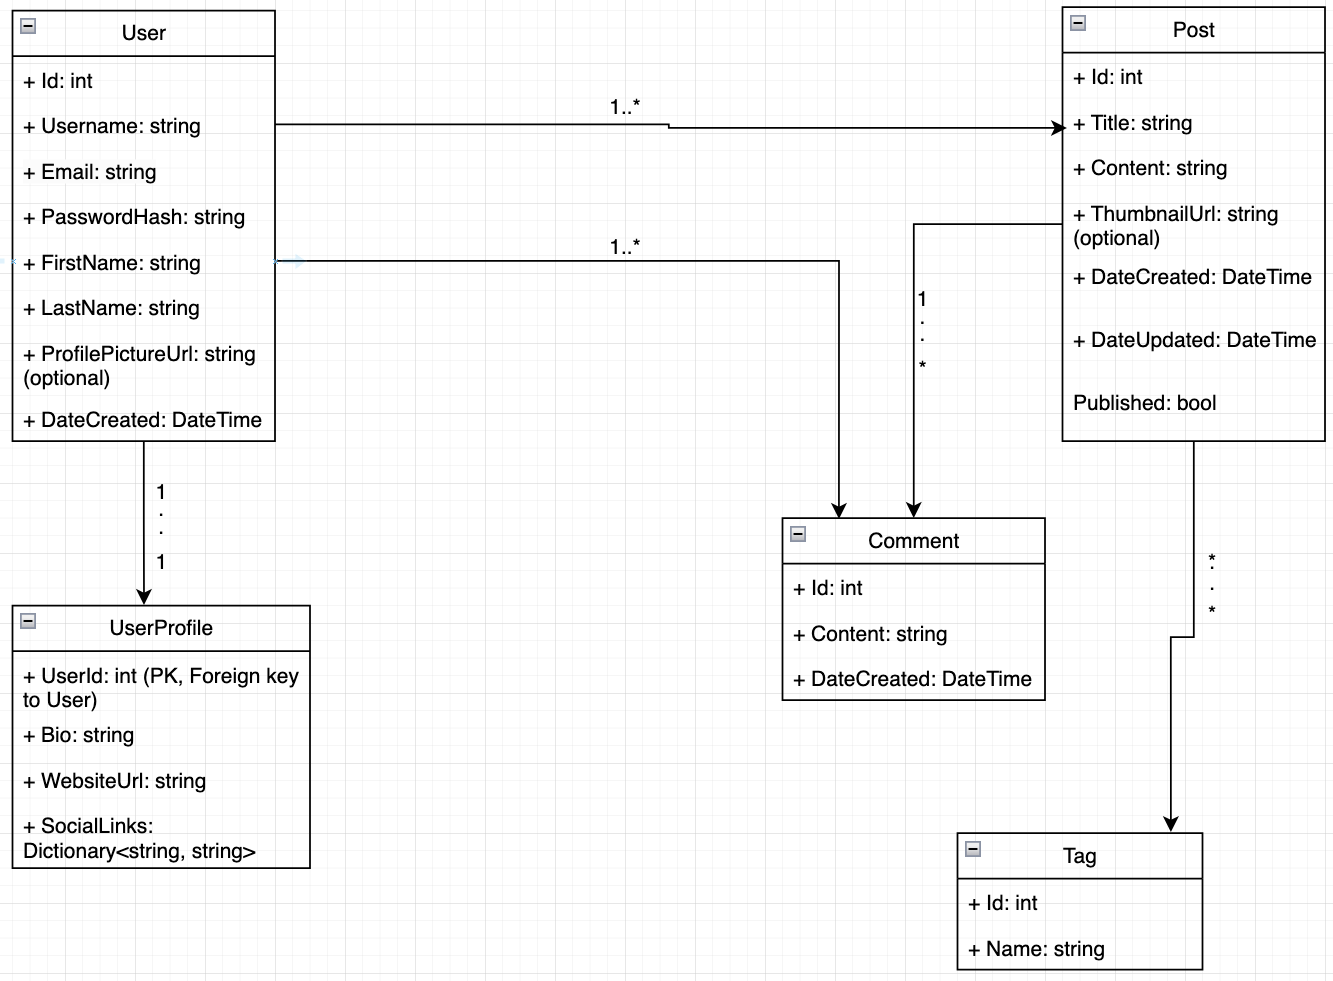
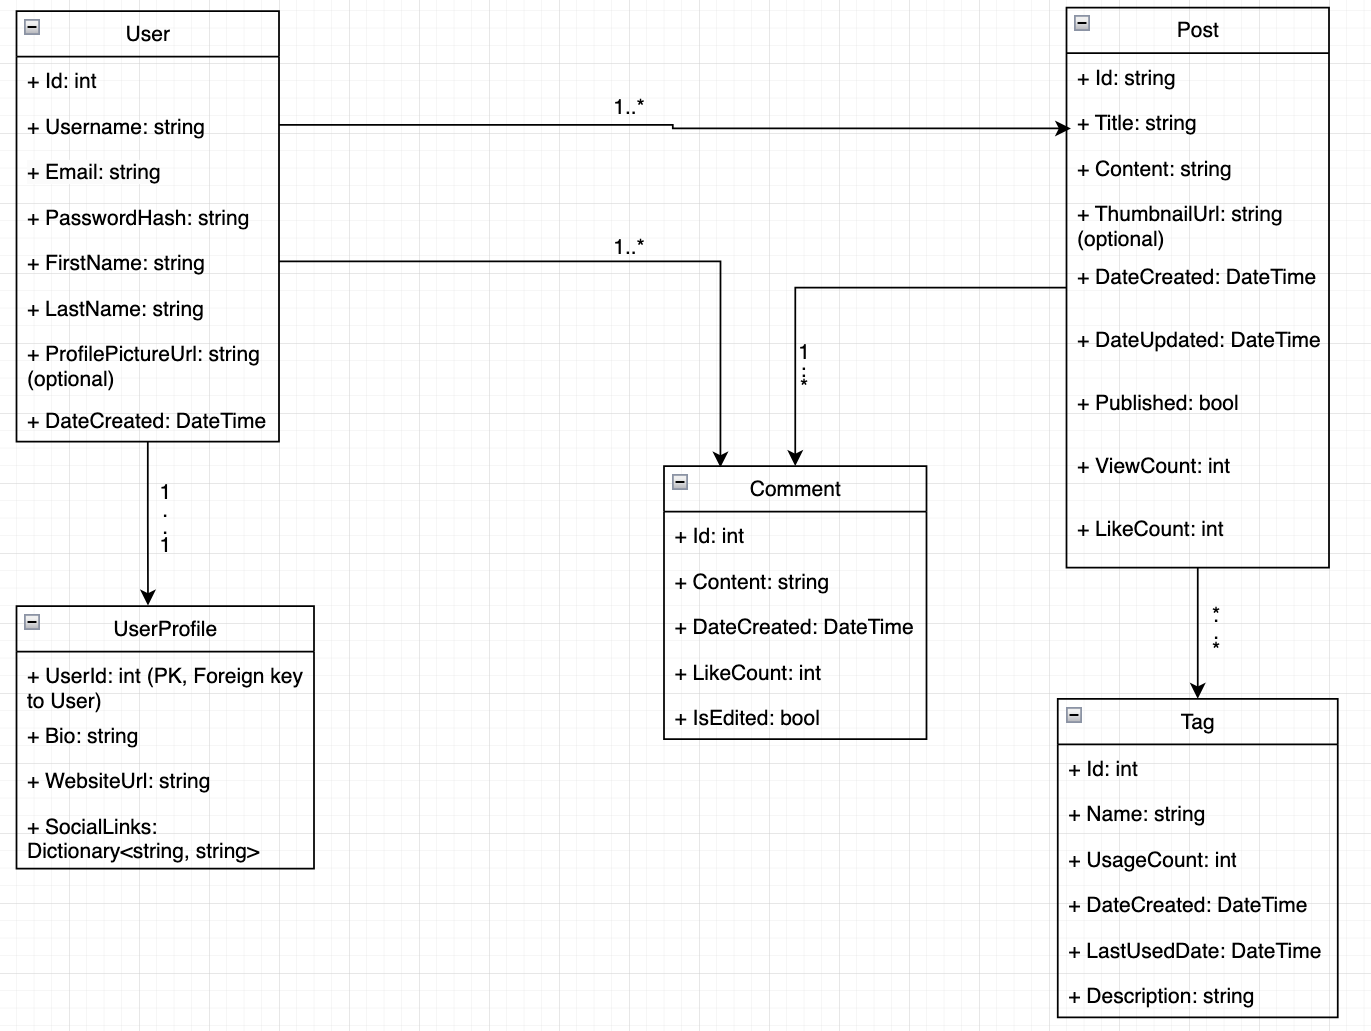
Create domain models, update readme

diff --git a/PostService.Domain/Models/Post.cs b/PostService.Domain/Models/Post.cs
@@ -1,0 +1,46 @@
+using System.ComponentModel.DataAnnotations;
+using MongoDB.Bson;
+using MongoDB.Bson.Serialization.Attributes;
+
+namespace PostService.Domain.Models
+{
+	public class Post
+	{
+        [BsonId] // Marks this as the MongoDB _id field
+        [BsonRepresentation(BsonType.ObjectId)] // Ensures it is serialized/deserialized as an ObjectId
+        public string Id { get; set; } = ObjectId.GenerateNewId().ToString(); // Default to a new ObjectId
+
+        [Required, MaxLength(30, ErrorMessage = "The title cannot have more than 30 characters.")]
+        public string? Title { get; set; }
+
+        [Required]
+        public string? Content { get; set; }
+
+        public string? ThumbnailUrl { get; set; } // Optional thumbnail for the post
+
+        [Required]
+        public DateTime DateCreated { get; set; } = DateTime.UtcNow; // Default to the current UTC time
+
+        [Required]
+        public DateTime DateUpdated { get; set; } = DateTime.UtcNow; // Tracks when the post was last updated
+
+        [Required]
+        public bool Published { get; set; }
+
+        // Navigation Property for Comments
+        public List<Comment>? Comments { get; set; } = new List<Comment>();
+
+        // Many-to-Many Relationship with Tags (via Tag IDs)
+        public List<string>? TagIds { get; set; } = new List<string>(); // Use `ObjectId`-formatted strings for Tag IDs
+
+        // UserId as a foreign key to the MySQL User table
+        // The UserId is a foreign key to the MySQL User table.
+        [Required]
+        public int UserId { get; set; } // References the author in the MySQL User table
+
+        // New Metadata
+        public int? ViewCount { get; set; } = 0; // Tracks how many times the post was viewed
+        public int? LikeCount { get; set; } = 0; // Tracks the
+    }
+}
+

diff --git a/PostService.Domain/Models/Tag.cs b/PostService.Domain/Models/Tag.cs
@@ -1,0 +1,32 @@
+using System.ComponentModel.DataAnnotations;
+using MongoDB.Bson;
+using MongoDB.Bson.Serialization.Attributes;
+
+namespace PostService.Domain.Models
+{
+	public class Tag
+	{
+        [BsonId] // Marks this as the MongoDB _id field
+        [BsonRepresentation(BsonType.ObjectId)] // Ensures it is serialized/deserialized as an ObjectId
+        public string Id { get; set; } = ObjectId.GenerateNewId().ToString(); // Default to a new ObjectId
+
+        [Required, MaxLength(30, ErrorMessage = "The name cannot have more than 30 characters.")]
+        public string? Name { get; set; }
+
+        // Reference back to Posts (Many-to-Many relationship)
+        [BsonRepresentation(BsonType.ObjectId)]
+        public List<string>? PostIds { get; set; } = new List<string>(); // Use `ObjectId`-formatted strings
+
+        // Optional: Additional metadata
+        public int UsageCount { get; set; } = 0; // Tracks how often the tag is used
+
+        // Optional metadata for better tracking
+        [Required]
+        public DateTime CreatedDate { get; set; } = DateTime.UtcNow; // When the tag was created
+        public DateTime? LastUsedDate { get; set; } // Tracks when the tag was last used
+
+        // Optional description for the tag
+        public string? Description { get; set; } // Short description of the tag
+    }
+}
+

diff --git a/PostService.Domain/Models/Comment.cs b/PostService.Domain/Models/Comment.cs
@@ -1,0 +1,32 @@
+using System.ComponentModel.DataAnnotations;
+using MongoDB.Bson;
+using MongoDB.Bson.Serialization.Attributes;
+
+namespace PostService.Domain.Models
+{
+	public class Comment
+	{
+        [BsonId] // Marks this as the MongoDB _id field
+        [BsonRepresentation(BsonType.ObjectId)] // Ensures it is serialized/deserialized as an ObjectId
+        public string Id { get; set; } = ObjectId.GenerateNewId().ToString(); // Default to a new ObjectId
+
+        [Required]
+        public string? Content { get; set; }
+
+        [Required]
+        public DateTime DateCreated { get; set; } = DateTime.UtcNow; // Default to current UTC time
+
+        // Reference back to Post
+        [BsonRepresentation(BsonType.ObjectId)]
+        public string? PostId { get; set; }  // Use ObjectId as string for Post reference
+
+        // Relationship: Comment belongs to a User (via UserId)
+        [Required]
+        public int UserId { get; set; } // Reference to the MySQL User's ID
+
+        // New Metadata
+        public int LikeCount { get; set; } = 0; // Tracks the number of likes for the comment
+        public bool IsEdited { get; set; } = false; // Tracks if the comment was edited
+    }
+}
+

diff --git a/UserService.Domain/Models/User.cs b/UserService.Domain/Models/User.cs
@@ -1,0 +1,35 @@
+using System.ComponentModel.DataAnnotations;
+
+namespace UserService.Domain.Models
+{
+	public class User
+	{
+		[Key]
+		public int Id { get; set; }
+
+		[Required, MaxLength(50, ErrorMessage = "The username cannot have more than 50 characters.")]
+		public string? Username { get; set; }
+
+        [Required, EmailAddress]
+        public string? Email { get; set; }
+
+        [Required]
+        public string? PasswordHash { get; set; } // Hashed password for security
+
+        [Required, MaxLength(50, ErrorMessage = "The first name cannot have more than 50 characters.")]
+        public string? FirstName { get; set; }
+
+        [Required, MaxLength(50, ErrorMessage = "The last name cannot have more than 50 characters.")]
+        public string? LastName { get; set; }
+
+        [MaxLength(255, ErrorMessage = "The picture file is cannot be that large.")]
+        public string? ProfilePictureUrl { get; set; }
+
+        [Required]
+        public DateTime DateCreated { get; set; }
+
+        // Navigation Property for the 1:1 relationship
+        public UserProfile? Profile { get; set; }
+    }
+}
+

diff --git a/UserService.Domain/Models/UserProfile.cs b/UserService.Domain/Models/UserProfile.cs
@@ -1,0 +1,21 @@
+using System.ComponentModel.DataAnnotations;
+
+namespace UserService.Domain.Models
+{
+	public class UserProfile
+	{
+        [Key]
+        public int UserId { get; set; } // Foreign Key to User Id
+
+        public string? Bio { get; set; }
+
+        [MaxLength(255, ErrorMessage = "The website url cannot have more than 255 characters.")]
+        public string? WebsiteUrl { get; set; }
+
+        public Dictionary<string, string>? SocialLinks { get; set; }
+
+        // Navigation Property back to User
+        public User? User { get; set; }
+    }
+}
+

diff --git a/README.md b/README.md
@@ -269,27 +269,48 @@
     • Create a MongoDB(PostService) database and the necessary table:
 
     {
-      "_id": "ObjectId",
-      "Title": "string",
-      "Content": "string",
-      "ThumbnailUrl": "string", // Optional
-      "DateCreated": "ISODate",
-      "DateUpdated": "ISODate",
-      "Published": "boolean",
-      "Tags": [
+      "_id": "ObjectId",                      // MongoDB ObjectId for the post
+      "Title": "string",                      // Required: max 30 characters
+      "Content": "string",                    // Required
+      "ThumbnailUrl": "string",               // Optional: URL to the thumbnail image
+      "DateCreated": "ISODate",               // Required: creation date
+      "DateUpdated": "ISODate",               // Required: last update date
+      "Published": true,                      // Required: publication status (true/false)
+
+      "Comment": [                           // One-to-Many Relationship: Comments on the post
         {
-          "_id": "ObjectId",
-          "Name": "string"
+          "_id": "ObjectId",                  // MongoDB ObjectId for the comment
+          "Content": "string",                // Required: content of the comment
+          "PostId": "ObjectId",               // Reference to the related Post
+          "DateCreated": "ISODate",           // Required: creation date of the comment
+          "UserId": 1,                        // Required: MySQL User.Id (foreign key reference)
+          "LikeCount": 10,                    // Tracks the number of likes for the comment
+          "IsEdited": false                   // Tracks if the comment was edited
         }
       ],
-      "Comments": [
-        {
-          "_id": "ObjectId",
-          "Content": "string",
-          "UserId": "int", // References User.Id from MySQL
-          "DateCreated": "ISODate"
-        }
-      ]
+
+      "TagIds": [                             // Many-to-Many Relationship with Tags (via Tag IDs)
+        "ObjectId",                           // MongoDB ObjectId for the tag
+        "ObjectId"                            // MongoDB ObjectId of another related tag
+      ],
+
+      "UserId": 1,                            // Required: MySQL User.Id (foreign key reference for the post author)
+      "ViewCount": 100,                       // Tracks how many times the post was viewed
+      "LikeCount": 25
+    }
+
+    {
+      "_id": "ObjectId",                  // MongoDB ObjectId for the tag
+      "Name": "string",                   // Tag name: max 30 characters
+      "PostIds": [                        // Tracks which posts are using this tag
+        "ObjectId",                       // MongoDB ObjectId of the related post
+        "ObjectId"                        // MongoDB ObjectId of another related post
+      ],
+
+      "UsageCount": 5,                    // Tracks how often the tag is used
+      "CreatedDate": "ISODate",           // When the tag was created
+      "LastUsedDate": "ISODate",          // When the tag was last used
+      "Description": "string"             // Short description of the tag
     }
 
 ##### 3. Gateway Configuration:
